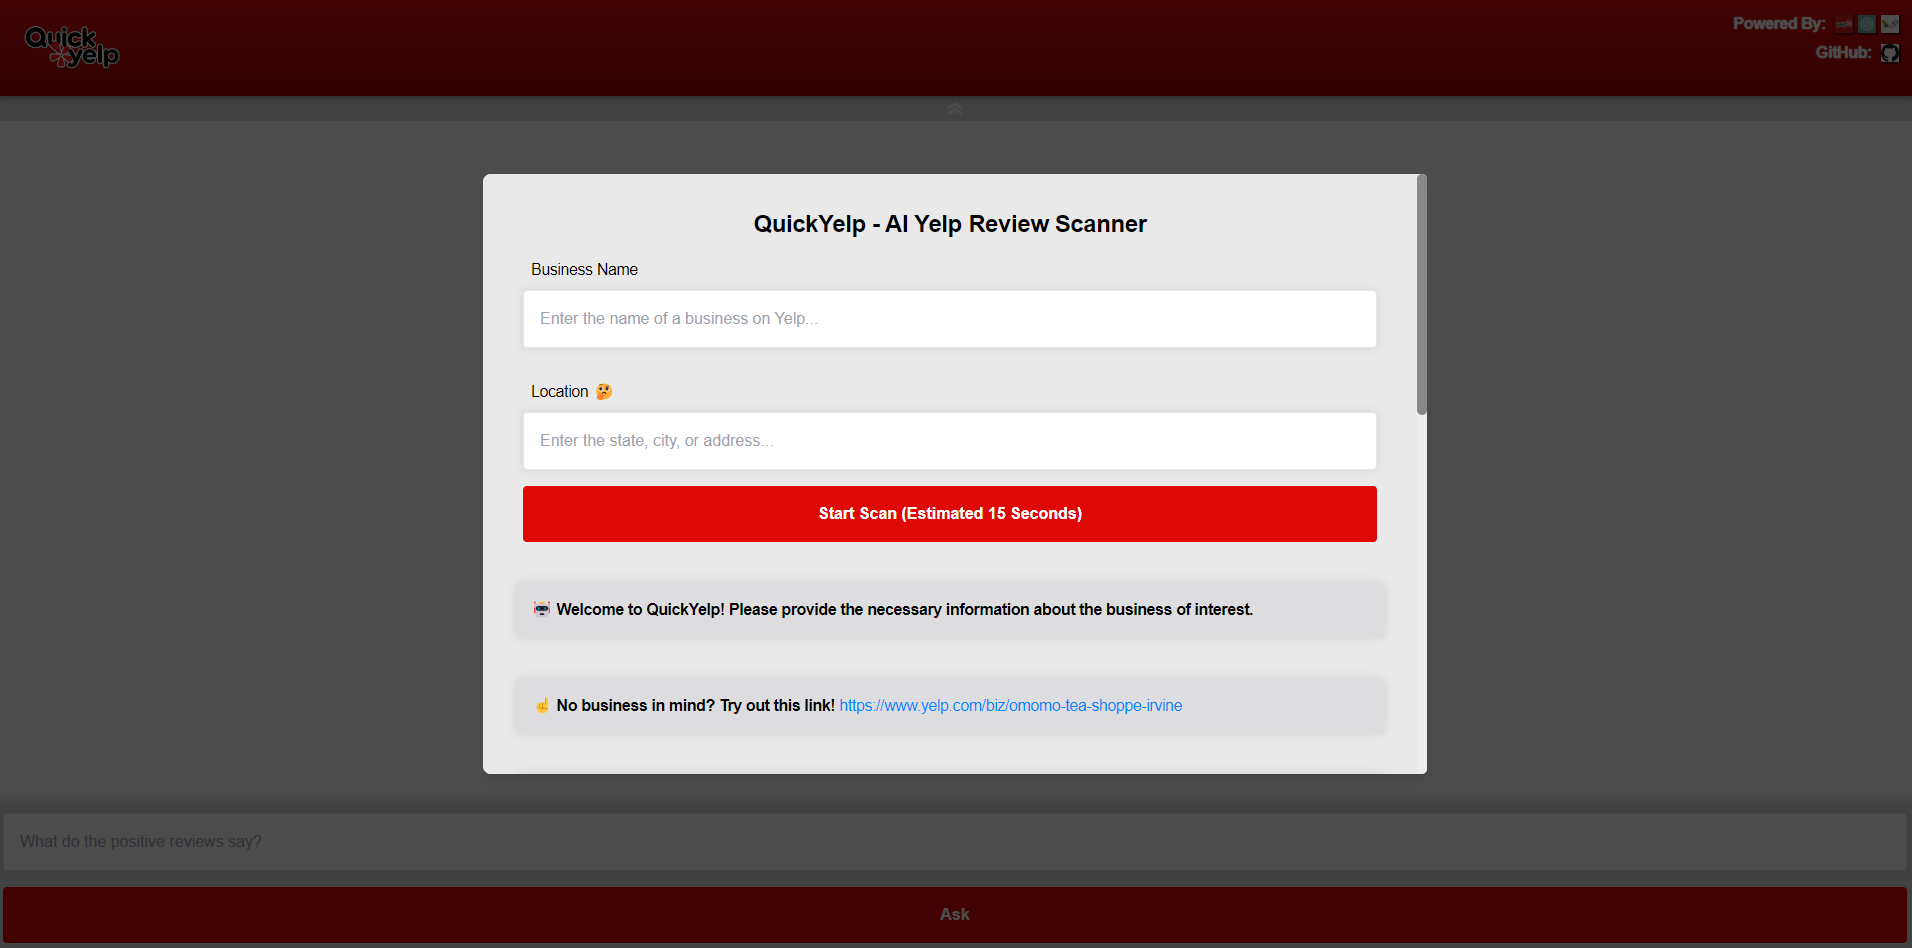
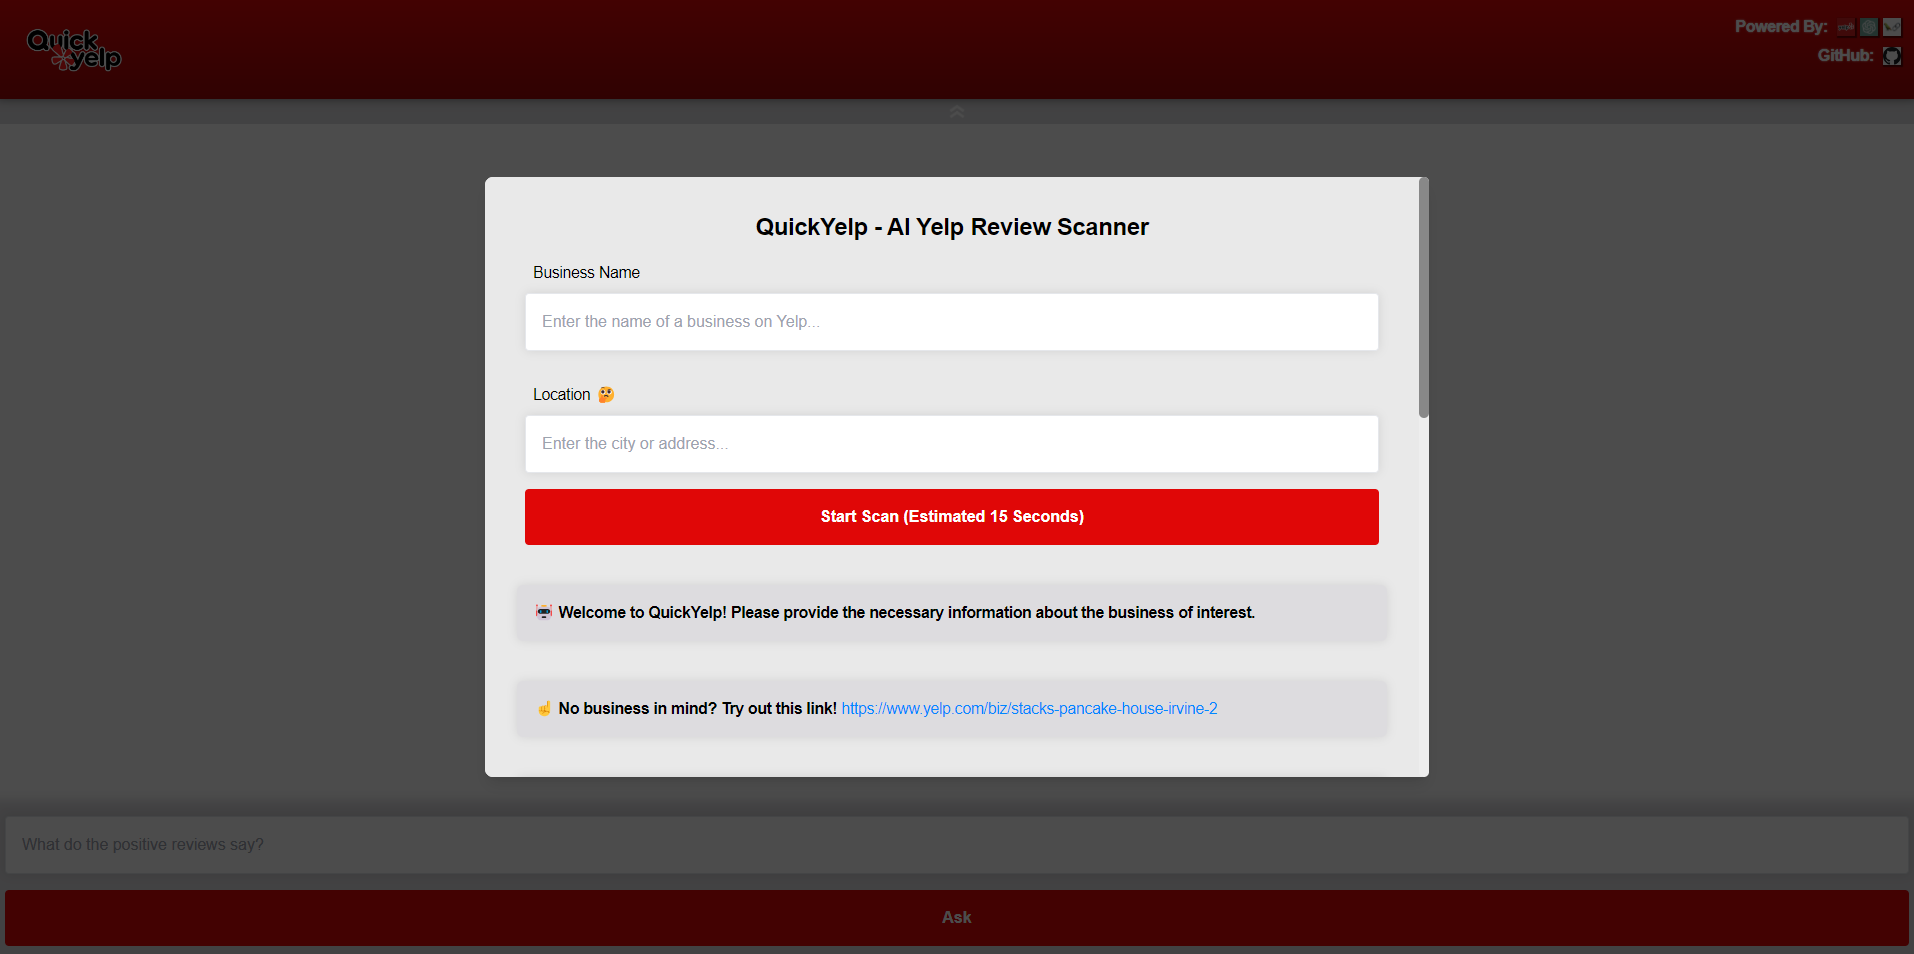
Fixed restaurant preview to fit mobile screens

diff --git a/templates/index.html b/templates/index.html
@@ -24,7 +24,7 @@
                 <label for="name">Business Name</label>
                 <input type="text" name="name" autocomplete="off" required placeholder="Enter the name of a business on Yelp..."><br>
                 <label for="location">Location<span class="info-icon" id="info-icon">🤔</span></label>
-                <input type="text" name="location" autocomplete="off" required placeholder="Enter the state, city, or address...">
+                <input type="text" name="location" autocomplete="off" required placeholder="Enter the city or address...">
                 <div class="info-popup" id="info-popup"><strong>Examples</strong>: <em>"New York City"</em>, <em>"NYC"</em>, <em>"350 5th Ave, New York, NY 10118"</em>.<br><strong>Constraints</strong>: Must be less than (or equal) to 250 characters.</div>                
                 <!-- <label for="url">Yelp URL:</label>
                 <input type="text" name="url" autocomplete="off" required placeholder="https://www.yelp.com/biz/..."><br> -->

diff --git a/static/outputs.css b/static/outputs.css
@@ -862,11 +862,10 @@ border-radius: 5px;
 }
 
 .business-photo {
-  flex-grow: 1;
-  width: auto;
+  width: 20vh;
+  height: 20vh;
   object-fit: cover;
   box-shadow: rgba(0, 0, 0, 0.1) 0px 0px 10px 0px;
-  height: 30vh;
 }
 
 .business-info {
@@ -882,7 +881,7 @@ border-radius: 5px;
 }
 
 .business-rating {
-  width: 100%;
+  width: 20vh;
   height: auto;
 }
 
@@ -890,7 +889,7 @@ border-radius: 5px;
   position: absolute;
   bottom: 0;
   right: 0;
-  width: 10vh;
+  width: 7vh;
   height: auto;
 }
 
@@ -1078,6 +1077,10 @@ input[type="submit"] {
 
   #chat-container {
     height: 88vh;
+  }
+
+  .business-yelp {
+    width: 5vh;
   }
 
   .user-message,

diff --git a/README.md b/README.md
@@ -33,7 +33,7 @@ Both chatbot replies are received, then fed once more to OpenAI's GPT-3.5 langua
     - React
 
 # Screenshots 🎥
-Demo Video: https://youtu.be/TC-GlWU-tnY
+Demo Video: https://youtu.be/IsDUfRyTwc8
 
 Screenshots as of 8/24/23:
 ![](https://github.com/julian-z/QuickYelp/blob/main/static/images/home.png)
